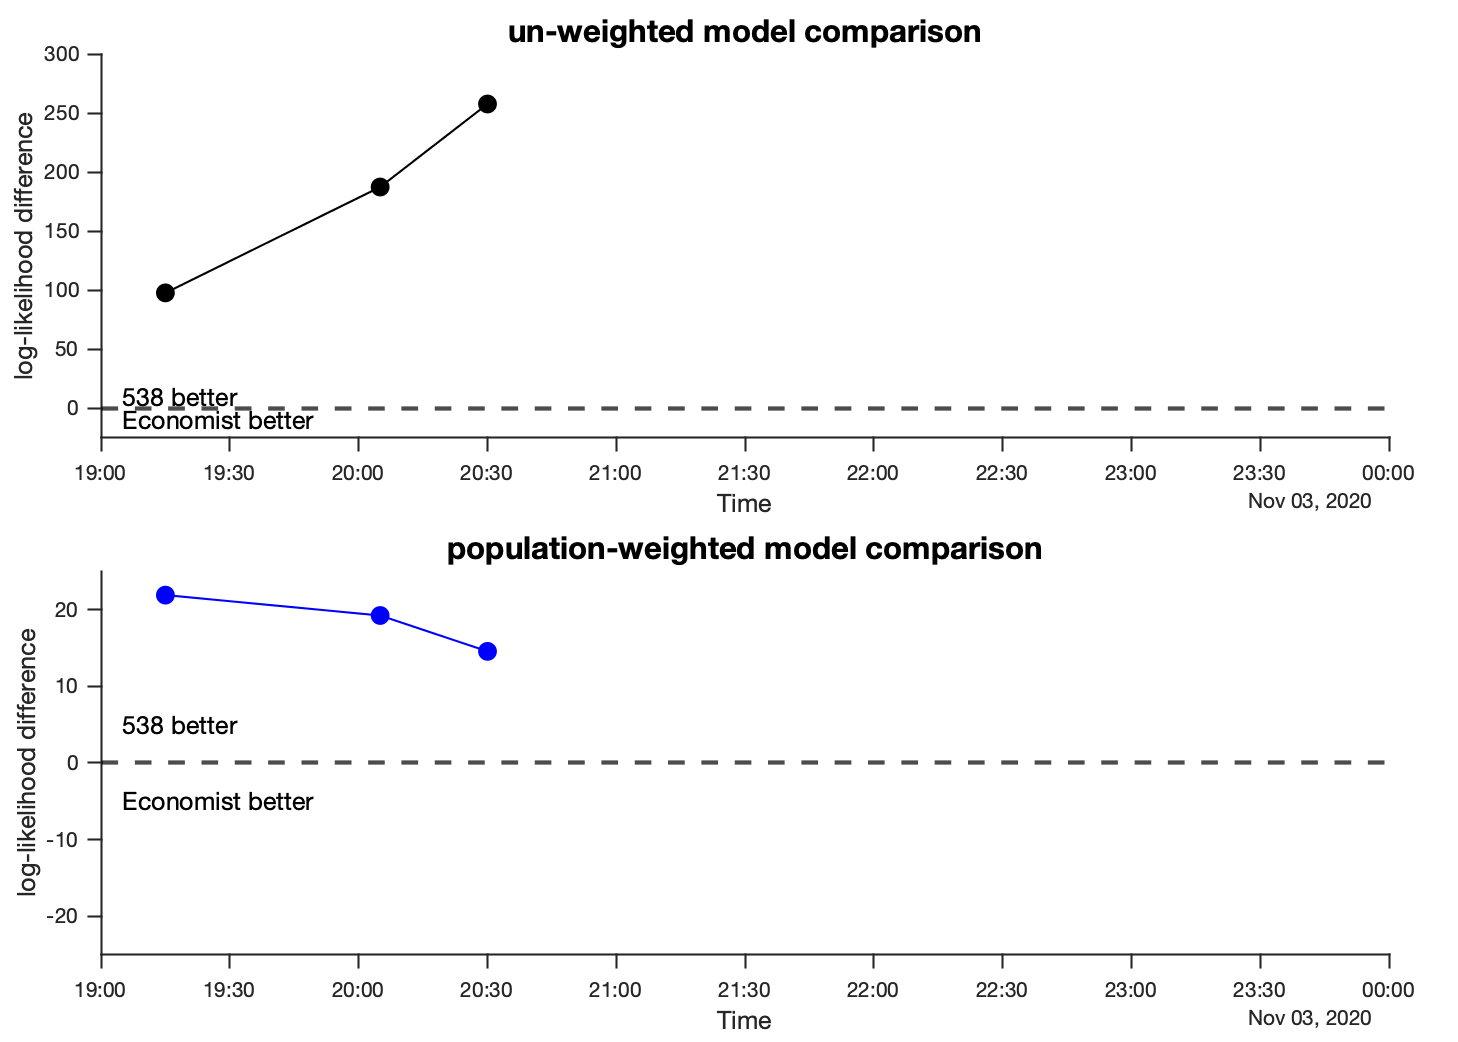
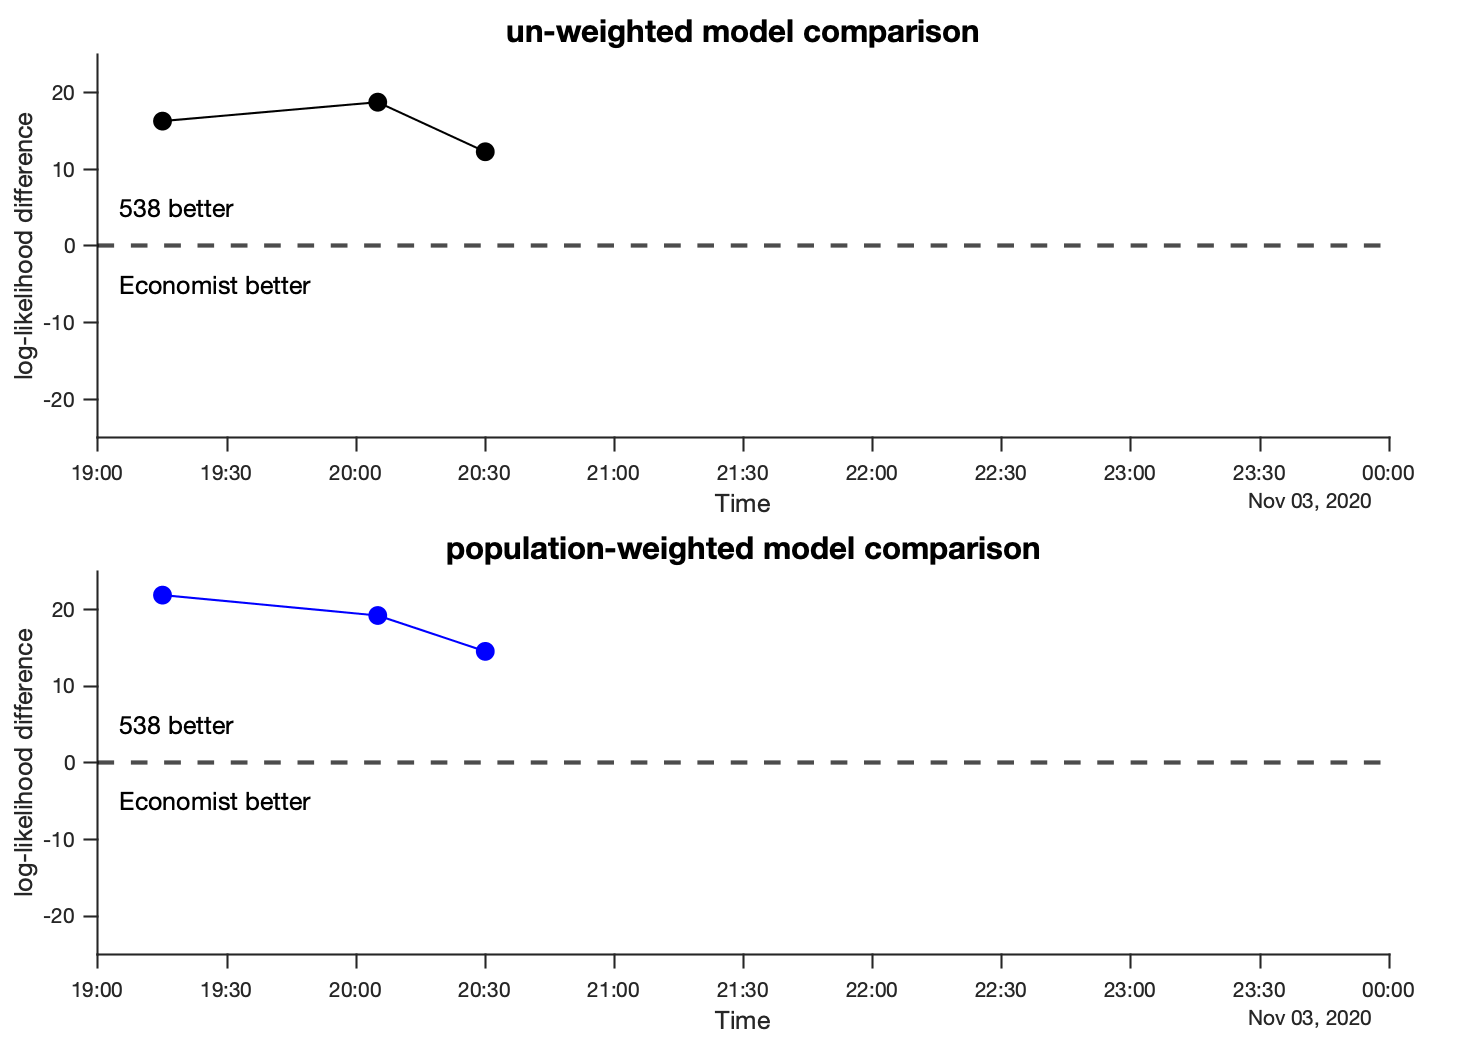
update

diff --git a/compare_models.m b/compare_models.m
@@ -61,10 +61,10 @@ end
 
 repPopWt = repmat(popWt, [1, size(r,2)]);
 
-tot_lik_538 = sum(log(eps + lik_538) .* isfinite(r));
+tot_lik_538 = sum(log(eps + lik_538) .* isfinite(r))./sum(isfinite(r));
 tot_wt_lik_538 = sum(log(eps + lik_538) .* isfinite(r) .* repPopWt./sum(repPopWt .* isfinite(r)));
 
-tot_lik_Econ = sum(log(eps + lik_Econ) .* isfinite(r));
+tot_lik_Econ = sum(log(eps + lik_Econ) .* isfinite(r))./sum(isfinite(r));
 tot_wt_lik_Econ = sum(log(eps + lik_Econ) .* isfinite(r) .* repPopWt./sum(repPopWt .* isfinite(r)));
 
 
@@ -79,8 +79,8 @@ nexttile;hold on;
 plot(curTime, tot_lik_538 - tot_lik_Econ, '-ok', 'LineWidth', 1, 'MarkerFaceColor', 'k', 'MarkerSize', 8);
 yline(0, '--k', 'LineWidth', 2);
 
-text(datetime([2020 11 3 19 05 00]), 10, '538 better', 'FontSize', 12)
-text(datetime([2020 11 3 19 05 00]), -10, 'Economist better', 'FontSize', 12)
+text(datetime([2020 11 3 19 05 00]), 5, '538 better', 'FontSize', 12)
+text(datetime([2020 11 3 19 05 00]), -5, 'Economist better', 'FontSize', 12)
 ylim([min(-25, f_ModelCompare.Children.Children.YLim(1)), max(25, f_ModelCompare.Children.Children.YLim(2))]);
 xlim([datetime([2020 11 3 19 00 00]), max(datetime([2020 11 4 00 00 00]), max(curTime))])
 
